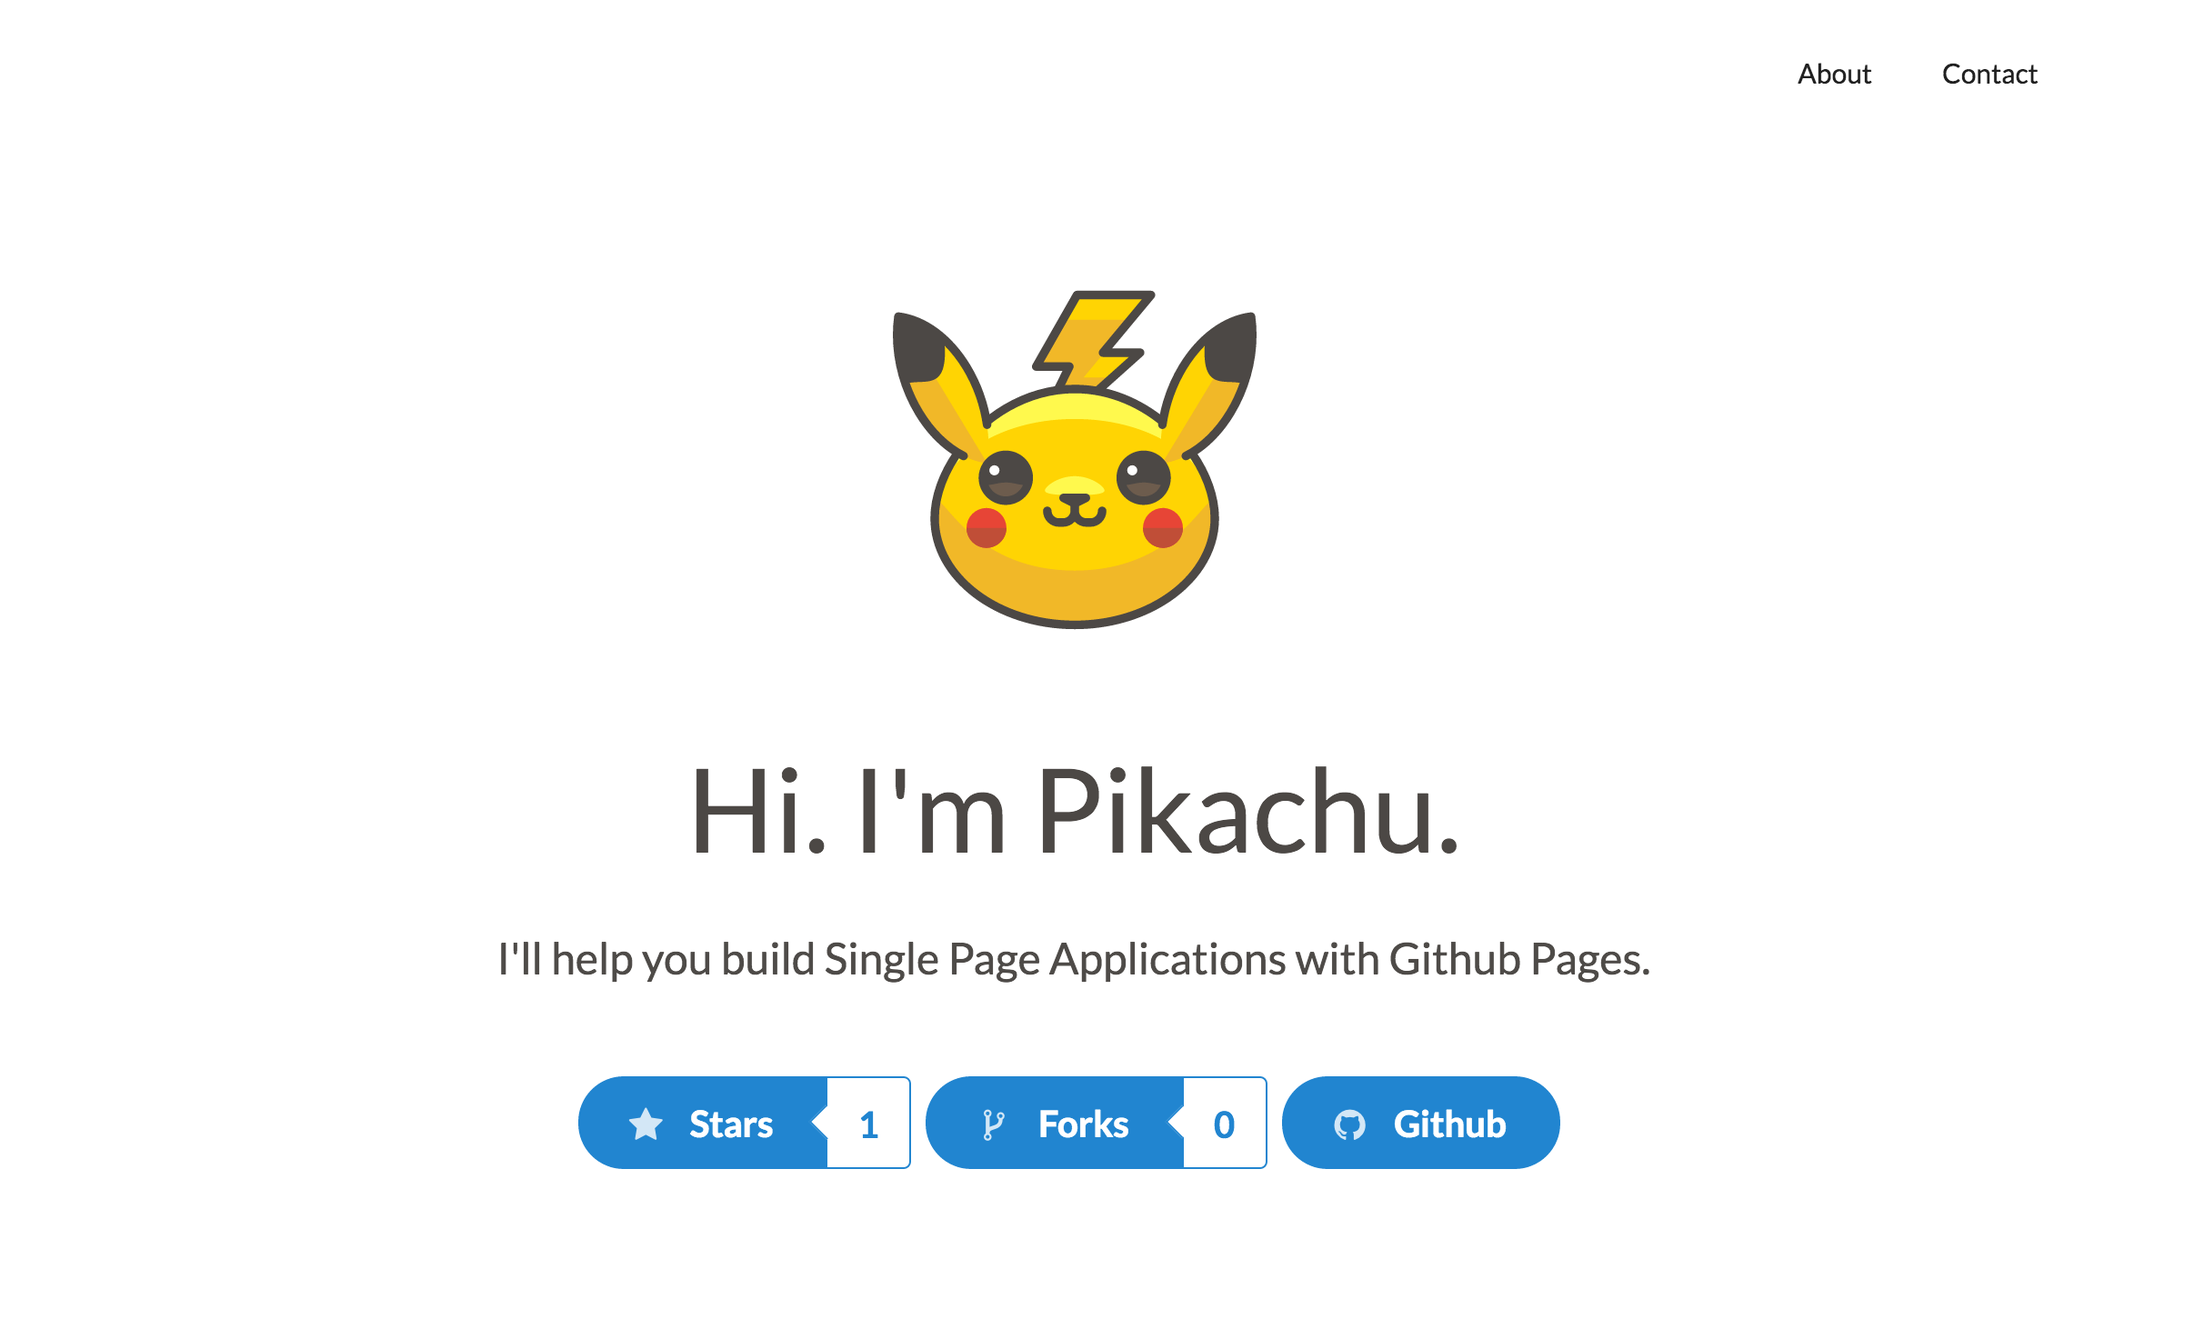
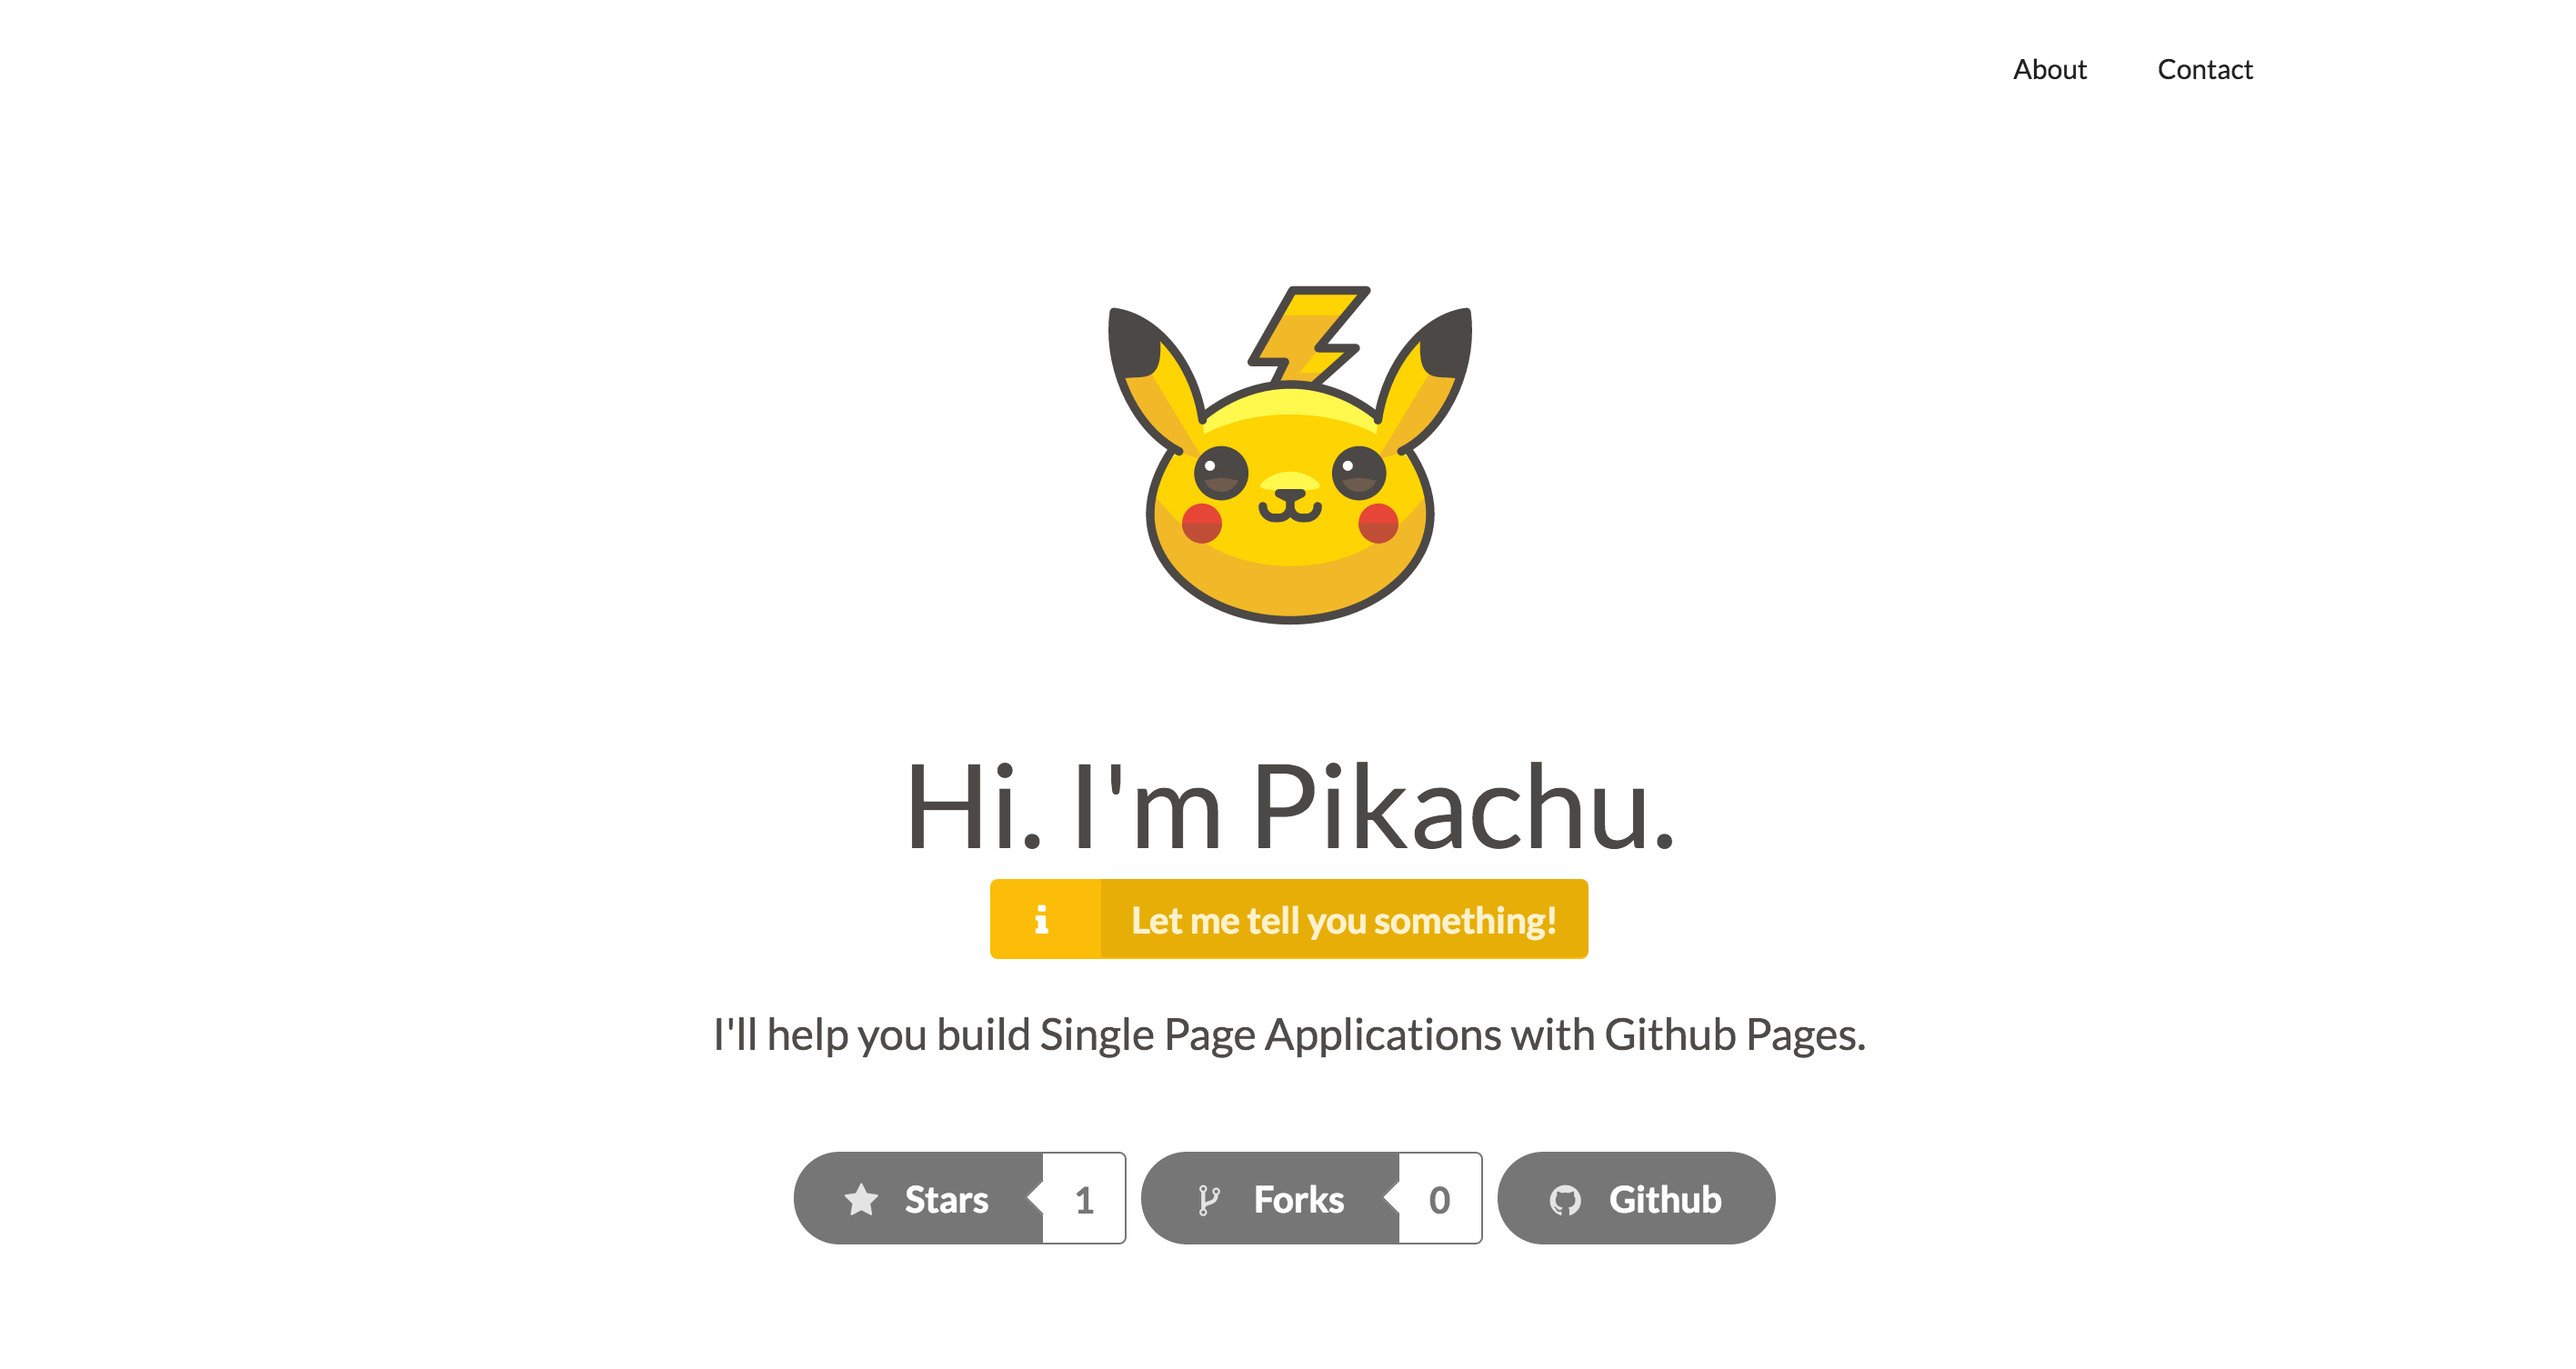
Modify 404, index css, new screen shot

diff --git a/index.html b/index.html
@@ -5,24 +5,29 @@
     <meta charset="utf-8" />
     <meta http-equiv="X-UA-Compatible" content="IE=edge,chrome=1" />
     <meta name="viewport" content="width=device-width, initial-scale=1.0, maximum-scale=1.0">
-    <title>Github Pages SPA - Web Semantics, Inc.</title>
+    <title>SPA for Github Pages - Web Semantics, Inc.</title>
     <link rel="stylesheet" type="text/css" href="https://cdnjs.cloudflare.com/ajax/libs/semantic-ui/2.2.2/semantic.min.css">
     <link rel="stylesheet" type="text/css" href="css/index.css">
     <script src="https://cdnjs.cloudflare.com/ajax/libs/jquery/3.1.0/jquery.min.js"></script>
-    <script src="https://cdnjs.cloudflare.com/ajax/libs/semantic-ui/2.2.2/semantic.js"></script>
     <script type="text/javascript" src="https://cdn.rawgit.com/websemantics/bragit/0.1.2/bragit.js"></script>
 
     <script>
-        $(document)
-            .ready(function() {
-
-
-            });
+        (function() {
+            var redirect = sessionStorage.redirect;
+            delete sessionStorage.redirect;
+            if (redirect && redirect != location.href) {
+                history.replaceState(null, null, redirect);
+                // REMOVE THIS - just showing the redirect route in the UI
+                $('#message').text('This page was redirected by 404.html, from the route: ' + redirect)
+            } else {
+                // REMOVE THIS - just showing the redirect route in the UI
+                $('#message').text('This page was loaded directly from the index.html file')
+            }
+        })();
     </script>
 </head>
 
 <body>
-
     <div class="pusher">
         <div class="ui vertical masthead center aligned segment">
 
@@ -34,20 +39,24 @@
                     </div>
                 </div>
             </div>
-
             <div class="ui text hero container">
                 <img src="img/pikachu.svg">
                 <h1 class="ui header">Hi. I'm Pikachu.</h1>
+                <div class="ui right huge yellow image label">
+                    <i class="info icon"></i>
+                    <div class="detail" id="message">Let me tell you something!</div>
+                </div>
+
                 <p>I'll help you build Single Page Applications with Github Pages.</p>
                 <a class="ui labeled huge button github-websemantics-gh-pages-spa-stars">
-                    <div class="ui blue huge button"> <i class="star icon"></i> Stars </div>
-                    <div class="ui basic blue left pointing label"> <i class="spinner loading icon"></i> </div>
+                    <div class="ui grey huge button"> <i class="star icon"></i> Stars </div>
+                    <div class="ui basic grey left pointing label"> <i class="spinner loading icon"></i> </div>
                 </a>
                 <a class="ui labeled huge button github-websemantics-gh-pages-spa-forks">
-                    <div class="ui blue huge button"> <i class="fork icon"></i> Forks </div>
-                    <div class="ui basic blue left pointing label"> <i class="spinner loading icon"></i> </div>
+                    <div class="ui grey huge button"> <i class="fork icon"></i> Forks </div>
+                    <div class="ui basic grey left pointing label"> <i class="spinner loading icon"></i> </div>
                 </a>
-                <a class="ui blue huge button github-websemantics-gh-pages-spa-github"> <i class="github icon"></i> Github </a>
+                <a class="ui grey huge button github-websemantics-gh-pages-spa-github"> <i class="github icon"></i> Github </a>
             </div>
 
         </div>
@@ -55,7 +64,8 @@
         <div class="ui vertical stripe segment">
             <div class="ui text container">
                 <h3 class="ui header">Single Page Application</h3>
-                <p> SPA is a web application or web site that fits on a single web page with the goal of providing a more fluid user experience similar to a desktop application.  In a SPA, either all necessary code, HTML, JavaScript and CSS is retrieved with a single page load or the appropriate resources are dynamically loaded and added to the page as necessary, usually in response to user actions.</p>
+                <p> SPA is a web application or web site that fits on a single web page with the goal of providing a more fluid user experience similar to a desktop application. In a SPA, either all necessary code, HTML, JavaScript and CSS is retrieved with
+                    a single page load or the appropriate resources are dynamically loaded and added to the page as necessary, usually in response to user actions.</p>
                 <a class="ui huge yellow button" href="https://en.wikipedia.org/wiki/Single-page_application">Read More</a>
             </div>
         </div>
@@ -66,15 +76,15 @@
                     <div class="three wide column">
                         <h4 class="ui header">Github</h4>
                         <div class="ui link list">
-                          <a href="https://github.com/websemantics/gh-pages-spa" class="item">Fork Me</a>
-                          <a href="https://github.com/csuwildcat/sghpa" class="item">SPA Template</a>
+                            <a href="https://github.com/websemantics/gh-pages-spa" class="item">Fork Me</a>
+                            <a href="https://github.com/csuwildcat/sghpa" class="item">SPA Template</a>
                         </div>
                     </div>
                     <div class="three wide column">
                         <h4 class="ui header">Links</h4>
                         <div class="ui link list">
-                          <a href="https://www.smashingmagazine.com/2016/08/sghpa-single-page-app-hack-github-pages/" class="item">Single Page App Hack</a>
-                          <a href="http://www.flaticon.com/packs/pokemon-go" class="item">Pokemon Go Icons</a>
+                            <a href="https://www.smashingmagazine.com/2016/08/sghpa-single-page-app-hack-github-pages/" class="item">Single Page App Hack</a>
+                            <a href="http://www.flaticon.com/packs/pokemon-go" class="item">Pokemon Go Icons</a>
                         </div>
                     </div>
                     <div class="seven wide column">

diff --git a/404.html b/404.html
@@ -1,0 +1,16 @@
+<!DOCTYPE html>
+<html>
+<head>
+    <meta charset="utf-8" />
+    <meta http-equiv="refresh" content="0;URL='/sghpa'"></meta>
+    <title>404 SPA for Github Pages - Web Semantics, Inc.</title>
+    <script>
+        sessionStorage.redirect = location.href;
+    </script>
+</head>
+<body>
+&nbsp;&nbsp;&nbsp;&nbsp;&nbsp;&nbsp;&nbsp;&nbsp;&nbsp;&nbsp;&nbsp;&nbsp;&nbsp;
+&nbsp;&nbsp;&nbsp;&nbsp;&nbsp;&nbsp;&nbsp;&nbsp;&nbsp;&nbsp;&nbsp;&nbsp;&nbsp;
+&nbsp;&nbsp;&nbsp;&nbsp;&nbsp;&nbsp;&nbsp;&nbsp;&nbsp;&nbsp;&nbsp;&nbsp;&nbsp;
+</body>
+</html>

diff --git a/css/index.css b/css/index.css
@@ -25,6 +25,10 @@ h5 {
     width: 200px;
 }
 
+.masthead .hero .ui.label .info.icon {
+    padding-left: 15px;
+}
+
 .masthead .hero h1.ui.header {
     margin-top: 0.7em;
     margin-bottom: 0em;
